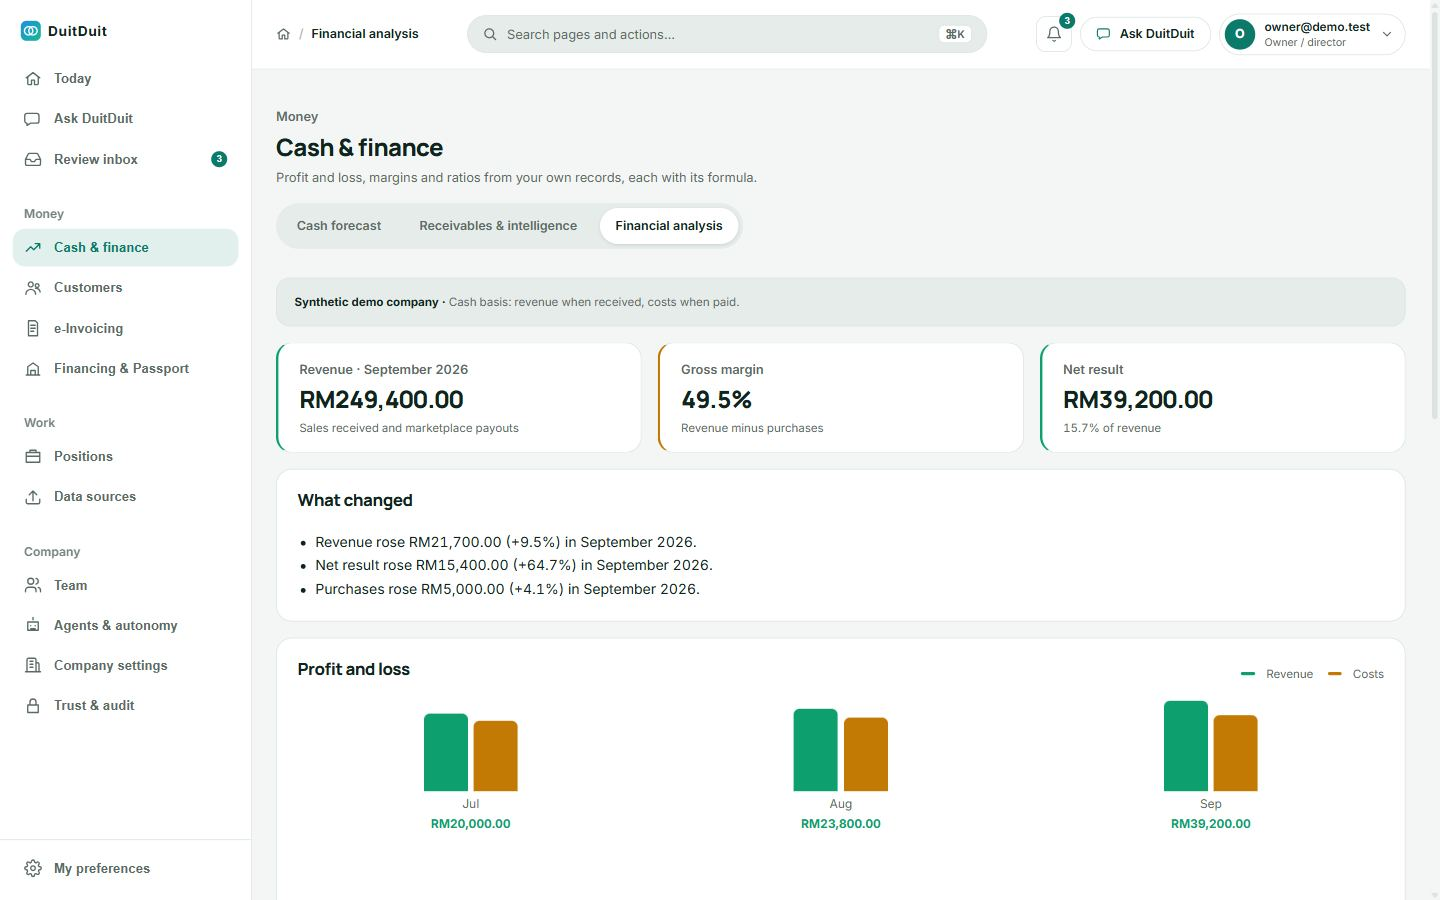
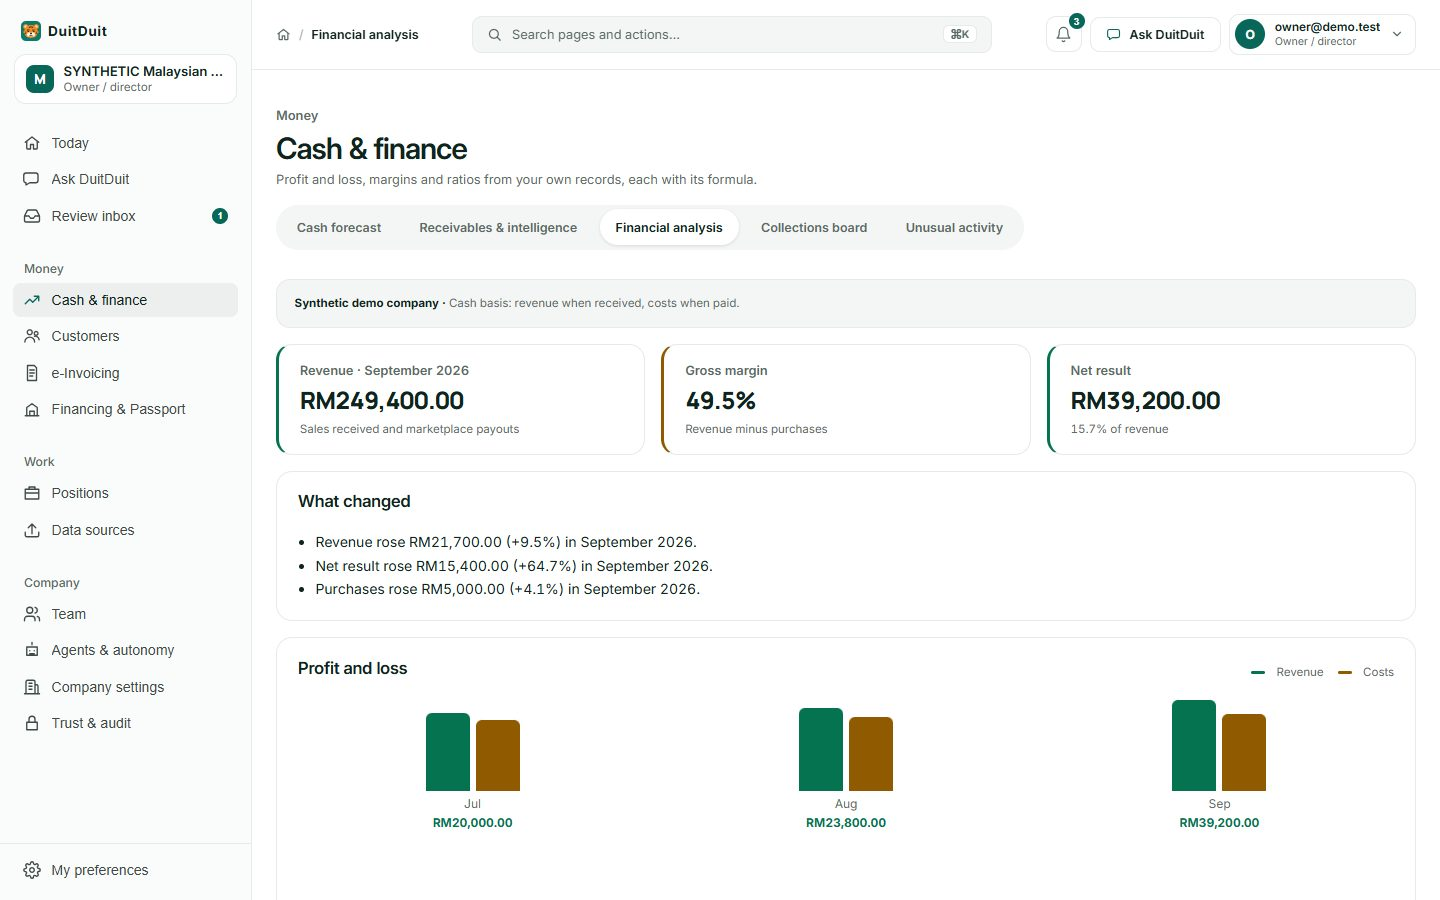
docs: landing page and README show the app as it is today
New screenshots of Today, the review inbox and the financial analysis; the
FAQ covers the Telegram bot and Slack notices; languages cover every
screen. The README build status is dated 2026-10-15: the demo company is
live, all workspace skills compute, the hosted server and the proxy fix.

diff --git a/frontend/src/screens/Landing.tsx b/frontend/src/screens/Landing.tsx
@@ -44,7 +44,15 @@ const FAQ_ITEMS = [
   },
   {
     q: "Which languages does it support?",
-    a: "English, Bahasa Malaysia and Chinese in the interface, and goals typed in any of the three reach the right agent.",
+    a: "Every screen switches between English, Bahasa Malaysia and Chinese, including sentences the server writes such as risk notes. Questions and goals typed in any of the three reach the right agent.",
+  },
+  {
+    q: "Can I send it a receipt from my phone?",
+    a: "Yes. Send a photo, file or note to your company's DuitDuit Telegram bot. Names, phone numbers and amounts are masked before anything is stored, and the record shows up in Data sources a minute later.",
+  },
+  {
+    q: "How does my team know something is waiting?",
+    a: "DuitDuit can post one line to your Slack channel when the number of items waiting for review changes, for example “3 items wait for review (Finance 2, Owner 1)”. It never includes titles, amounts or names.",
   },
 ];
 
@@ -76,9 +84,9 @@ const PROTECTIONS = [
 ];
 
 const SHOTS = [
-  { src: "/screenshots/today.jpg", title: "Today", caption: "What needs you, with the cash gap first." },
+  { src: "/screenshots/today.jpg", title: "Today", caption: "Cash, the 90-day low point, what waits for you and why the score is what it is." },
   { src: "/screenshots/analysis.jpg", title: "Financial analysis", caption: "Profit and loss and ratios with their formulas." },
-  { src: "/screenshots/financing.jpg", title: "Financing", caption: "Matches, next steps and the scorecard." },
+  { src: "/screenshots/inbox.jpg", title: "Review inbox", caption: "What the agent prepared, the records it used and what approving does." },
 ];
 
 export default function Landing() {
@@ -191,7 +199,7 @@ export default function Landing() {
 
       <PhotoBanner src="/photos/petaling-street.webp" alt="Petaling Street market in Kuala Lumpur at night, under red lanterns" credit="Petaling Street, Kuala Lumpur. Photo: Ravin Rau, Unsplash" pos="50% 40%">
         <h2>Built for Malaysian small businesses.</h2>
-        <p>Ringgit, LHDN e-invoice checks, PDPA and EPF dates built in. Menus in English, Bahasa Melayu and 中文.</p>
+        <p>Ringgit, LHDN e-invoice checks, PDPA and EPF dates built in. Every screen in English, Bahasa Malaysia and 中文.</p>
       </PhotoBanner>
 
       <section className="lx-band" id="landing-security" aria-labelledby="lx-security-title">

diff --git a/frontend/src/components/landing/PlatformTabs.tsx b/frontend/src/components/landing/PlatformTabs.tsx
@@ -9,7 +9,7 @@ type Tab = { id: string; label: string; title: string; body: string };
 
 const TABS: Tab[] = [
   { id: "collections", label: "Collections", title: "Who owes what, at a glance.", body: "Every unpaid invoice in one column. Drag one to Reminder and the Collections agent drafts it for approval." },
-  { id: "inbox", label: "Review inbox", title: "Every proposal waits for a person.", body: "Agents draft. People comment, @mention a colleague and decide. Money needs two of them." },
+  { id: "inbox", label: "Review inbox", title: "Every proposal waits for a person.", body: "Each item shows what the agent prepared, the records it used and what approving does. People comment, @mention a colleague and decide. Money needs two of them." },
   { id: "automations", label: "Automations", title: "Follow-up, prepared on time.", body: "A reminder sequence moves from friendly to firm to a call, one approved step at a time." },
   { id: "ai", label: "AI connections", title: "Ask from your own AI tool.", body: "Connect Claude, or Chinese tools on DeepSeek, Qwen or Kimi, over MCP. Read-only, masked, recorded." },
 ];

diff --git a/README.md b/README.md
@@ -13,7 +13,7 @@
 ![Tests](https://img.shields.io/badge/tests-pytest_offline-2496ED?logo=pytest&logoColor=white)
 [![Website](https://img.shields.io/badge/website-duitduit--umber.vercel.app-black?logo=vercel&logoColor=white)](https://duitduit-umber.vercel.app/)
 
-**Live site: <https://duitduit-umber.vercel.app/>** (the API behind it runs on a team member's server; see [Build status](#build-status))
+**Live site: <https://duitduit-umber.vercel.app/>** (the API behind it runs on a team member's Google Cloud server; see [Build status](#build-status))
 
 DuitDuit is our entry for the **2026 Shenzhen International FinTech Competition
 (FinTechathon), International Track — Topic E: SME Finance Copilot**. It gives a small
@@ -27,18 +27,18 @@ passes through one protected pipeline: sensitive values are tokenized and encryp
 any AI model sees them, every answer cites its evidence and adapts to the requester's role,
 and every disclosure and decision lands in a hash-chained audit log.
 
-| Today | Financial analysis | Financing & Passport |
+| Today | Review inbox | Financial analysis |
 | --- | --- | --- |
-| ![Today: the cash gap three weeks ahead](frontend/public/screenshots/today.jpg) | ![Monthly profit and loss with ratios](frontend/public/screenshots/analysis.jpg) | ![Financing matches and credit scorecard](frontend/public/screenshots/financing.jpg) |
+| ![Today: cash, the 90-day low point, what waits and the financing score](frontend/public/screenshots/today.jpg) | ![Review inbox: what the agent prepared, the records it used and what approving does](frontend/public/screenshots/inbox.jpg) | ![Monthly profit and loss with ratios](frontend/public/screenshots/analysis.jpg) |
 
 All figures shown come from a **synthetic** Malaysian home-goods importer.
 
-**Try it:** open the live site and choose **Log in**. Once the server operator switches on
-the demo account (step 4 of the [production checklist](docs/deployment/production-checklist.md)),
-an **Open the demo company** button appears there. It signs you in as the owner of the
-synthetic company in one click, with a real password-and-authenticator session run by the
-server. Anything that would leave the company is recorded and never sent. Until then you can
-create your own company. Locally, see [Setup](#setup).
+**Try it:** open the live site and choose **Open the demo company**. It signs you in as the
+owner of the synthetic company in one click, with a real password-and-authenticator session
+run by the server; a **Demo authenticator** button shows the current code when an action asks
+for one. Anything that would leave the company is recorded and never sent. Every screen
+switches between English, Bahasa Malaysia and 中文 under **My preferences**. Locally, see
+[Setup](#setup).
 
 ---
 
@@ -102,7 +102,7 @@ a receivable — and not only as a compliance task.
 
 ### Build status
 
-Status as of 2026-10-13. The demo company and its data are synthetic and labelled as such.
+Status as of 2026-10-15. The demo company and its data are synthetic and labelled as such.
 
 | Capability | Status |
 | --- | --- |
@@ -111,11 +111,13 @@ Status as of 2026-10-13. The demo company and its data are synthetic and labelle
 | Forecast check: each day's forecast is kept on the audit chain and scored against the bank balance once a statement covers the day, with an accuracy per horizon and the largest differences | **Built and tested.** Accuracy is **not measured** yet: no real company's statements have covered a forecast day, and the synthetic demo company is deliberately never scored. |
 | Financing matching with reasons and next steps; credit scorecard; application packs; products modelled on public schemes | **Built and tested** |
 | Monthly profit and loss, ratios, "what changed", bank-line matching | **Built and tested** |
-| Ask DuitDuit assistant: four playbooks, voice input with transcript review, confirmation before every change | **Built and tested** |
-| Supervisor agents, review inbox with L1–L3 levels, maker-checker for money, earned autonomy, kill switch | **Built and tested.** The Supervisor routes a goal (English, Malay or Chinese, by fixed keyword rules) to the cash-flow, collections, financing, HR & payroll, sales, payables and compliance agents. Working agents: cash flow, collections, financing, HR & payroll (payroll cash check, EPF/SOCSO/EIS/PCB due dates), sales (follow-ups on deals closing soon), payables (bill calendar, duplicate bills), compliance (incidents, notices), plus the checker agent. Agents are rule-based on purpose: they propose and a person decides. In the position workspaces, 12 of the 33 available skills compute from records; the rest say "not computed yet". Production is designed only. |
+| Ask DuitDuit assistant: four playbooks, questions about a page answered in the chat (which loans fit, which invoices need fixes), cited sources listed under each answer, voice input with transcript review, confirmation before every change | **Built and tested.** Voice input needs a speech key on the server and is off on the live site. |
+| Supervisor agents, review inbox with L1–L3 levels, maker-checker for money, earned autonomy, kill switch | **Built and tested.** The Supervisor routes a goal (English, Malay or Chinese, by fixed keyword rules) to the cash-flow, collections, financing, HR & payroll, sales, payables and compliance agents. Working agents: cash flow, collections, financing, HR & payroll (payroll cash check, EPF/SOCSO/EIS/PCB due dates), sales (follow-ups on deals closing soon), payables (bill calendar, duplicate bills), compliance (incidents, notices), plus the checker agent. Agents are rule-based on purpose: they propose and a person decides. In the position workspaces, all 33 available skills compute from the company's records (a test checks none is left uncomputed) and say plainly when the records they need are missing. Production is designed only. |
 | Financing Readiness Passport, lender and auditor links, public verification | **Built and tested** |
 | Identity: password, email code, authenticator app (AAL2), step-up for sensitive actions, backend-owned sessions | **Built and tested** with a mocked provider. **On the live site (2026-10-11):** a new company's owner signed up end to end: password, 6-digit email code, authenticator setup, then into the app. One run, done by hand by the team; not yet repeated by an automated test. |
-| One-click demo company for judges | **Built and tested** with a mocked provider. Not yet switched on in the hosted deployment; it switches on with the [production checklist](docs/deployment/production-checklist.md). |
+| One-click demo company for judges | **Live.** Switched on in the hosted deployment on 2026-10-13. Its review inbox holds the full story (cash shortfall, financing pack, quarantined supplier bank change, L3 payroll run), a duplicate bill to find, Customer C's complaint and three automations. Its password and sign-out everywhere are locked so one visitor cannot sign the others out. `python -m seed.demo_into_company` loads the same synthetic story into a named, empty company for presenting from a real sign-in; it refuses a company with records of its own and labels the company as demo data. |
+| Languages | **Built.** Every app screen switches between English, Bahasa Malaysia and Chinese, including sentences the server writes (risk notes, checker results, playbook steps). The marketing pages are English. Native-speaker review of the Malay is pending. |
+| Telegram bot and team chat | **Live.** The capture bot runs on the hosted server: `/capture`, choose a record type, send the text or file; it arrives masked in Data sources. Slack notices are switched on for one company; Slack accepted the test message on 2026-10-15. |
 | Interface redesign | **Built.** A white, hairline-framed look: a landing page with a scripted product preview, a centred sign-in, a Today screen with a greeting and an ask box, and in-app hand-offs, activity timelines and a connections board. Records (an invoice, an incident, an automation, an AI key) open in a side panel with their details and the actions a person can take, in the Attio style. |
 | Team features: comments and @mentions on review items, a collections board with disputes, promises to pay and paused customers, automations and reminder sequences with run history, saved views, customer risk notes with bands, Slack and WhatsApp notices | **Built and tested**, including as Finance and staff under PostgreSQL row-level security. Each ends in a proposal for a person to approve, or only shows information. WhatsApp is not tested against a live account. |
 | Finance and staff on the live database | **Fixed 2026-10-12.** Row-level security let only the owner and Compliance read other people's audit-chain entries, so Finance saw an empty review inbox and could not record decisions. Chain reads and such writes now use a worker session scoped to the same company; a PostgreSQL test runs these paths as Finance and staff. |
@@ -125,7 +127,7 @@ Status as of 2026-10-13. The demo company and its data are synthetic and labelle
 | AI techniques: a payment-delay model, calibrated forecast ranges (conformal prediction), anomaly detection on bills and payments, a checker agent on every review item, keyword reranking with a grounding check on answers and one more search when a sentence is not grounded (agentic retrieval), and benchmarks across companies with differential privacy | **Built and tested.** Described, with what each does not claim, in [docs/standards/ai-techniques.md](docs/standards/ai-techniques.md). On the synthetic demo company the payment model has no paid e-invoices to learn from and the forecast ranges need five scored days, so both say "not measured"; the benchmark needs five companies. Reinforcement learning and federated learning are roadmap, not built. |
 | Public site | **Built.** Attio-style Product and Resources menus; Pricing (marked as a proposal, not on sale), Changelog (from the commit history) and Help pages. |
 | Phone layout and accessibility | **Measured:** no sideways scrolling on 18 screens at 375 px. axe WCAG 2.1 AA finds 0 violations on 20 pages in both themes, and Lighthouse accessibility scores 100 on eight screens. |
-| Hosted deployment | **Partly done.** The frontend is live at <https://duitduit-umber.vercel.app>, and requests to `/api` are forwarded to the API. Supabase Auth is configured: codes in every email template, sending through a dedicated Gmail account. The API still runs through a temporary tunnel on a team member's computer, whose address changes when it restarts; on 2026-10-12 it was unreachable (502). Next: move the API to a server with a fixed address that the team controls. The screens added on 2026-10-12 and the fixes of 2026-10-13 go live once the API runs the latest code. Then run `python -m seed.topic_e --allow-postgres` and `python -m seed.topic_e_original_fixtures --tenant-id <demo tenant>` once more on the hosted database (both are idempotent), and set `PREWARM_GLINER_ON_STARTUP=true`, or the first question after a restart waits 30–60 seconds while the detector loads. The demo accounts at `@finbrain-demo.test` cannot receive sign-in codes; give them real mailboxes to test Finance, Compliance and Employee on the live site. |
+| Hosted deployment | **Live.** The frontend is on Vercel at <https://duitduit-umber.vercel.app>; requests to `/api` are forwarded to the API, which runs in Docker on a team member's Google Cloud VM behind a tunnel. The proxy forwards record references such as `payable:12` (fixed 2026-10-15; actions naming one used to fail only on the live site). Uploads return once the file is protected and are summarised just after, and answers finish within the proxy's ~25 seconds. The server's free trial ends around 2026-11-17, before the finals. |
 | Reachable from mainland China | **Pending.** Needs a custom domain, because `vercel.app` is mostly blocked there. Not measured from inside China yet. |
 
 ### How the entry maps to the scoring criteria
